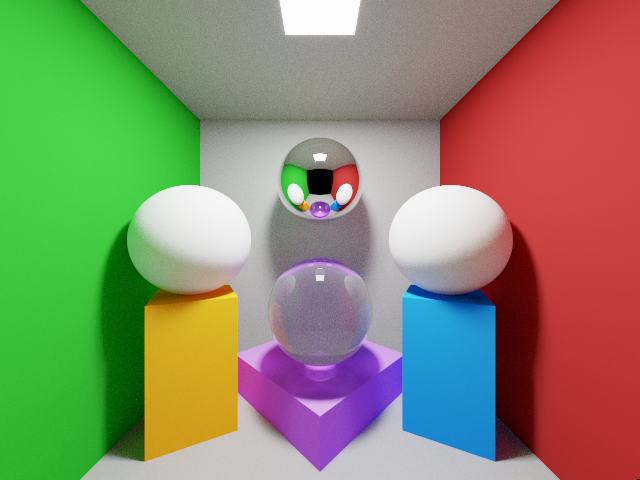
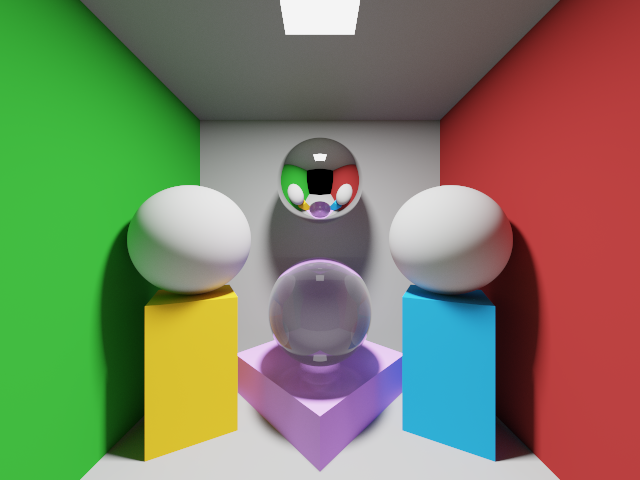
Simplification of diffuse light collection. Single shadow ray per light source. Removal of PI multiplications as they cancelled eachother out. Importance and termination tweaked. It now seems that the render is more correct as the colors are not extremely saturated any longer. There is also less var

diff --git a/source/scene.cpp b/source/scene.cpp
@@ -100,79 +100,78 @@ ColorDbl Scene::TraceRay(Ray ray, UniformRandomGenerator& uniformGenerator, unsi
 	}
 
 	Object& object = *hitInfo.object;
-	Material& surface = object.material;
-	ColorDbl surfaceColor = surface.color;
-	vec3 intersectionPoint = ray.origin + ray.direction * hitInfo.hitDistance;
-	vec3 normal = object.GetSurfaceNormal(intersectionPoint, hitInfo.elementIndex);
-
 	if (traceDepth == 0 || object.IsLight())
 	{
-		return importance * surface.emission;
+		// Note that this method "cheats" and only allows explicit light sources to emit light.
+		return importance * object.material.emission;
 	}
 
 	// Lambertian diffuse reflector
+	Material& surface = object.material;
+	vec3 intersectionPoint = ray.origin + ray.direction * hitInfo.hitDistance;
+	vec3 normal = object.GetSurfaceNormal(intersectionPoint, hitInfo.elementIndex);
 	if (surface.type == SurfaceType::Diffuse)
 	{
 		intersectionPoint += normal * INTERSECTION_ERROR_MARGIN;
 
-		ColorDbl subSampleContribution{ 0.0f };
+		/*
+			Direct light contribution
+		*/
 		ColorDbl directLight{ 0.0f };
 		vec3 lightDirection;
 		RayIntersectionInfo hitInfo;
 		float distanceSq = 0.0;
 		float surfaceDot = 0.0f;
 		float lightDot = 0.0f;
+		double BRDF = 0.0;
 		for (Object* lightSource : lights)
 		{
-			subSampleContribution = ColorDbl{ 0.0f };
-			for (unsigned int sample = 0; sample < LIGHT_SUBSAMPLE_COUNT; ++sample)
+			lightDirection = lightSource->GetRandomPointOnSurface(uniformGenerator) - intersectionPoint;
+			lightDirection = glm::normalize(lightDirection);
+
+			// Shadow ray attempt (either a clear path (no collision) or the light is reached)
+			Ray shadowRay = Ray(intersectionPoint, lightDirection);
+			if (!IntersectRay(shadowRay, hitInfo) || (hitInfo.object == lightSource))
 			{
-				lightDirection = lightSource->GetRandomPointOnSurface(uniformGenerator) - intersectionPoint;
-				distanceSq = std::max(1.0f, glm::dot(lightDirection, lightDirection));
-				lightDirection = glm::normalize(lightDirection);
+				surfaceDot = glm::dot(normal, lightDirection);
+				lightDot = glm::dot(vec3(0.0f, -1.0f, 0.0f), lightDirection*-1.0f);	
+				BRDF = surface.BRDF(ray.direction, shadowRay.direction, normal);
 
-				// Shadow ray attempt (either a clear path (no collision) or the light is reached)
-				Ray shadowRay = Ray(intersectionPoint, lightDirection);
-				if (!IntersectRay(shadowRay, hitInfo) || (hitInfo.object == lightSource))
-				{
-					surfaceDot = std::max(0.0f, glm::dot(normal, lightDirection));
-					lightDot = std::max(0.0f, glm::dot(vec3(0.0f, -1.0f, 0.0f), lightDirection*-1.0f));
-
-					// Each subsample has the same multiplication of lightEmission / pdf,
-					// it has therefore been moved outside the inner loop to be multiplied only once.
-					subSampleContribution += double(surfaceDot * lightDot / distanceSq);
-				}
+				directLight += lightSource->material.emission * double(BRDF * surfaceDot * lightDot);
 			}
-			directLight += lightSource->material.emission / lightSource->PDF() * subSampleContribution / double(LIGHT_SUBSAMPLE_COUNT);
 		}
 
 		/*
-			Modify importance value
+			Determine if ray should terminate using russian roulette.
 		*/
-		Ray bouncedRay = RandomHemisphereRay(intersectionPoint, ray.direction, normal, uniformGenerator, surfaceDot);
-		double hemispherePDF = 1.0 / (2.0 * M_PI);
-		double BRDF = surface.BRDF(ray.direction, bouncedRay.direction, normal);
-		importance = importance/hemispherePDF * surface.color*BRDF;
-
 		double p = MaxImportance(importance);
+		importance *= surface.color;
+		directLight *= importance;
 		if (uniformGenerator.RandomDouble(0.0, 1.0) > p)
 		{
-			return importance * surface.emission; // Russian roulette terminated the path
+			return directLight;
 		}
-		importance *= 1.0 / p;
+		importance /= p;
 
-		// Indirect lighting
+		/*
+			Indirect light (if ray did not terminate)
+
+			Importance should actually be divided by the hemispherePDF = 1/(2.0*PI).
+			That has been optimized away so that only the 2.0 remains as a multiplication.
+			(the PI disappeared because: BRDF/PDF = (albedo/PI) / (1/(2.0*PI)) = albedo*2.0)
+		*/
+		Ray bouncedRay = RandomHemisphereRay(intersectionPoint, ray.direction, normal, uniformGenerator, surfaceDot);
+		importance *= 2.0 * double(surfaceDot) * surface.BRDF(ray.direction, bouncedRay.direction, normal);
 		ColorDbl indirectLight = TraceRay(bouncedRay, uniformGenerator, --traceDepth, importance);
 
-		// Return all light contribution
-		return importance * (surface.emission + directLight + indirectLight);
+		return directLight + indirectLight;
 	}
 	else if (surface.type == SurfaceType::Specular)
 	{
 		intersectionPoint += normal * INTERSECTION_ERROR_MARGIN;
 
 		vec3 newDirection = glm::reflect(ray.direction, normal);
-		return surface.emission + TraceRay(Ray(intersectionPoint, newDirection), uniformGenerator, --traceDepth, importance);
+		return TraceRay(Ray(intersectionPoint, newDirection), uniformGenerator, --traceDepth, importance);
 	}
 	else if (surface.type == SurfaceType::Refractive)
 	{
@@ -195,7 +194,7 @@ ColorDbl Scene::TraceRay(Ray ray, UniformRandomGenerator& uniformGenerator, unsi
 		if (cos2t < 0.0f)
 		{
 			// Return total internal reflection
-			return importance * (surface.emission + TraceRay(Ray{ intersectionPoint + errorMargin, glm::reflect(I, normal) }, uniformGenerator, --traceDepth, importance));
+			return TraceRay(Ray{ intersectionPoint + errorMargin, glm::reflect(I, normal) }, uniformGenerator, --traceDepth, importance);
 		}
 
 		// Use Schlick's approximation of the Fresnel equation to determine reflection and refraction contributions.
@@ -204,7 +203,7 @@ ColorDbl Scene::TraceRay(Ray ray, UniformRandomGenerator& uniformGenerator, unsi
 		float R0 = (n2 - n1) / (n2 + n1);
 		R0 *= R0;
 		float c = 1.0f - (-cosI);
-		float R = R0 + (1 - R0) * c * c * c * c * c;
+		float R = R0 + (1.0f - R0) * c * c * c * c * c;
 
 		// Use probability to determine if the ray is important enough to need a detailed contribution
 		if (uniformGenerator.RandomDouble() < MaxImportance(importance))
@@ -437,14 +436,14 @@ void CornellBoxScene::AddExampleObjects(float radius)
 	refractionSphere->material.color = ColorDbl(0.5);
 
 	// Left box
-	Box* lambertianBox = CreateObject<Box>();
-	lambertianBox->SetGeometry({ halfWidth - 1.5f, -halfHeight, -depthOffset / 2.0 }, { 0.0f, 1.0f, 0.0f }, { -0.5f, 0.0f, 1.0f }, 2.0f, 2.0f, halfHeight - radius);
-	lambertianBox->material.color = ColorDbl(0.01, 0.3, 0.8);
+	Box* orenNayarBox = CreateObject<Box>();
+	orenNayarBox->SetGeometry({ halfWidth - 1.5f, -halfHeight, -depthOffset / 2.0 }, { 0.0f, 1.0f, 0.0f }, { -0.5f, 0.0f, 1.0f }, 2.0f, 2.0f, halfHeight - radius);
+	orenNayarBox->material.color = ColorDbl(0.01, 0.3, 0.8);
 
 	// Right box
-	Box* orenNayarBox = CreateObject<Box>();
-	orenNayarBox->SetGeometry({ -halfWidth + 1.5f, -halfHeight, -depthOffset / 2.0 }, { 0.0f, 1.0f, 0.0f }, { 0.5f, 0.0f, 1.0f }, 2.0f, 2.0f, halfHeight - radius);
-	orenNayarBox->material.color = ColorDbl(0.8, 0.4, 0.01);
+	Box* lambertianBox = CreateObject<Box>();
+	lambertianBox->SetGeometry({ -halfWidth + 1.5f, -halfHeight, -depthOffset / 2.0 }, { 0.0f, 1.0f, 0.0f }, { 0.5f, 0.0f, 1.0f }, 2.0f, 2.0f, halfHeight - radius);
+	lambertianBox->material.color = ColorDbl(0.8, 0.4, 0.01);
 
 	// Center box
 	Box* middleBox = CreateObject<Box>();
@@ -469,6 +468,8 @@ void CornellBoxScene::AddExampleObjects(float radius)
 
 	orenNayarSphere->material.roughness = 0.5f;
 	orenNayarBox->material.roughness = 0.5f;
+
+	refractionSphere->material.refractiveIndex = 1.4f;
 
 	// Test load mesh
 	//TriangleMesh* mesh = CreateObject<TriangleMesh>();

diff --git a/source/main.cpp b/source/main.cpp
@@ -40,13 +40,12 @@ static const bool RAY_TRACE_UNLIT = false;
 static const bool RAY_TRACE_RANDOM = true;
 static const unsigned int RAY_TRACE_DEPTH = 100;
 static const unsigned int RAY_COUNT_PER_PIXEL = RAY_TRACE_UNLIT ? 1 : 1;
-static const unsigned int RAY_TRACE_LIGHT_SAMPLE_COUNT = 1;
+static const float LIGHT_STRENGTH = 10.0f;
 
 static const bool APPLY_TONE_MAPPING = true;
 static const bool USE_SIMPLE_TONE_MAPPER = true;
 static const double TONE_MAP_GAMMA = 2.2;
 static const double TONE_MAP_EXPOSURE = 1.0;
-
 
 static const bool USE_MULTITHREADING = true;
 struct ThreadInfo
@@ -237,10 +236,9 @@ int main()
 	//HexagonScene scene;
 	CornellBoxScene scene{ 10.0f, 10.0f, 10.0f };
 	scene.backgroundColor = { 0.0f, 0.0f, 0.0f };
-	scene.LIGHT_SUBSAMPLE_COUNT = RAY_TRACE_LIGHT_SAMPLE_COUNT;
 	scene.MoveCameraToRecommendedPosition(camera);
 	scene.AddExampleObjects();
-	scene.AddExampleLight(ColorDbl{ 100.0f });
+	scene.AddExampleLight(ColorDbl{ LIGHT_STRENGTH });
 	scene.PrepareForRayTracing();
 	//scene.octree.PrintDebug();
 
@@ -290,6 +288,9 @@ int main()
 
 				if (threadsAreDone)
 				{
+					// Draw one extra time so that both frame buffers contain the same result. (screenshot might act up otherwise)
+					glImage.Draw();
+					window.SwapFramebuffer();
 					std::cout << "\r\n\r\nRender finished at " + TimeString(clock.Time()) + "\r\n";
 				}
 			}

diff --git a/source/core/material.h b/source/core/material.h
@@ -18,6 +18,9 @@ struct Material
 	float roughness = 1.0f;
 	float refractiveIndex = 1.52f; // window glass
 
+	// The PI was removed for optimization.
+	// The 1/PI here was multiplied by PI from the hemisphere PDF in the scene tracer.
+	// BRDF/PDF = (albedo/PI) / (1/(2.0*PI)) = albedo*2.0
 	double BRDF(vec3& incident, vec3& reflection, vec3& normal)
 	{
 		switch (diffuse)
@@ -39,11 +42,11 @@ struct Material
 			float beta = glm::min(theta_out, theta_in);
 
 			double ON = (A + (B * glm::max(0.0f, cos_in_out)) * glm::sin(alpha) * glm::tan(beta));
-			return albedo / M_PI * ON;
+			return albedo * ON;
 		}
 		case DiffuseType::Lambertian: 
 		default:
-			return albedo / M_PI;
+			return albedo;
 		}
 
 		return 1.0;

diff --git a/source/scene.h b/source/scene.h
@@ -24,7 +24,6 @@ protected:
 public:
 	Octree octree;
 	ColorDbl backgroundColor = { 0.0f, 0.0f, 0.0f };
-	unsigned int LIGHT_SUBSAMPLE_COUNT = 32;
 
 	Scene() = default;
 	~Scene();
